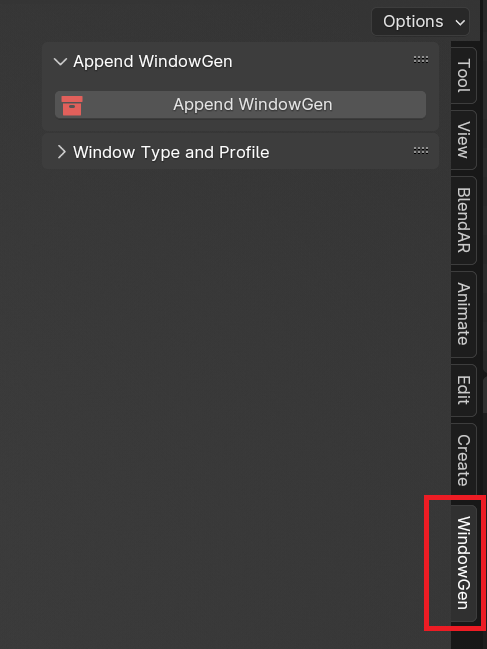
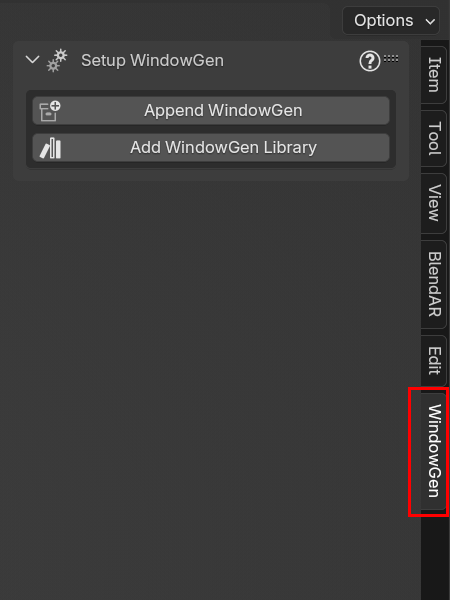
added export documentation

Changed region(s): [[0.7778, 0.0, 1.0, 1.0], [0.0622, 0.06, 0.9022, 0.27]]

diff --git a/docs/source/working_with_generator.rst b/docs/source/working_with_generator.rst
@@ -63,8 +63,9 @@ How to update WindowGen
 -----------------------
 
 Once you install the latest version of WindowGen addon, you will be able to update your older projects to this version.
-    .. note::
-        WindowGen automatically finds the latest version on your PC and changes the UI to indicate if update is available.
+
+.. note::
+    WindowGen automatically finds the latest version on your PC and changes the UI to indicate if update is available.
 
 1. Press the "Update" button.
 
@@ -108,5 +109,63 @@ How to add new window to the scene
 
     .. image:: images/02_working_with_02select.gif
         :width: 75%
+
+How to export window using WindowGen
+------------------------------------
+
+You can export your window using WindowGen. It will export in the chosen format with the default Blender settings for each of the format.
+
+1. Select the format you want your Window to be exported.
+    .. image:: images/02_working_with_05format.gif
+        :width: 75%
+
+2. Select Export Location.
+    .. note::
+        By default WindowGen exports selected window to the folder WindowGen_Export, which is created at the same path where your .blend file is saved.
+
+    .. image:: images/02_working_with_05path.gif
+        :width: 75%
+
+3. Export Options.
+    
+    .. warning::
+        This function is still in experimental state. Please report any bugs if you have got any.
+
+    You have to options:
+    
+    Option A: Prepare for Export (Recommended for inspection)
+
+    1. Press "Prepare for Export".
+        .. image:: images/02_working_with_05prepare.gif
+            :width: 75%
+    
+    2. The addon will:
+        - Create a duplicate of your window
+        - Move it to a new collection called "WindowGen Export"
+        - Apply the WindowGen modifier (keeps other modifiers like Weighted Normal)
+        - Separate the window into logical components:
+            - Frame
+            - Sashes (sash1, sash2, etc.)
+            - Handles (sash1_handle, sash2_handle, etc.)
+            .. image:: images/02_working_with_05origin.gif
+                :width: 75%
+        - Set proper origins for each component
+        - Create a parent empty object for easy manipulation
+        - Clean up unused materials
+        .. image:: images/02_working_with_05outliner.png
+            :width: 75%
+
+    3. You can now:
+    - Inspect the separated components
+    - Make manual adjustments if needed
+    - Export manually using File > Export
+
+    Option B: Export Window (One-click export)
+
+    1. Click **"Export Window"**
+    2. The addon will:
+    - Perform all preparation steps automatically
+    - Immediately export to your chosen format and location
+    - Display a success message when complete
 
 Now you can adjust the selected preset to your needs. You can navigate to the :ref:`parameters` section of the documentation to find out how to customize your window.
